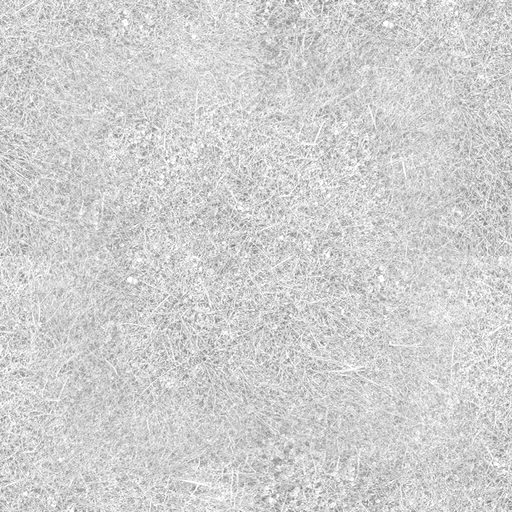
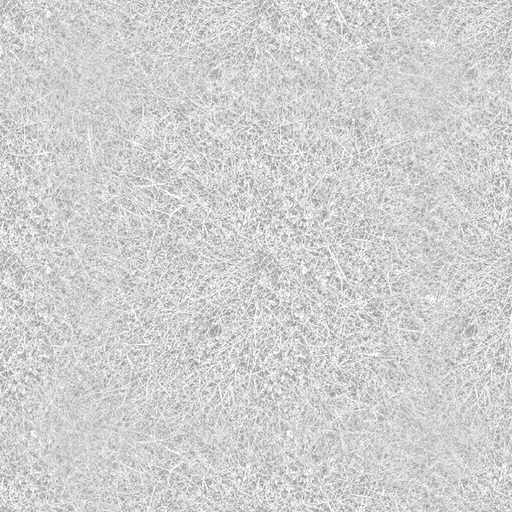
Chapter III's muster, the store-keeper's ledger, and ground without its grid
The fort now closes on a real reckoning: Thomas Studley's ledger asks six of
23 questions about the weeks at the fort (the work, the packed arms, the
attack of 26 May, the boughs and the triangle, who kept the council), two
wrong allowed. It opens only when the fort is finished on 15 June; passing
marks the chapter done and the record leads to the ending.

The ground detail maps (sand, grass, earth, marsh) are re-painted. The
seamless blend now runs one axis at a time; doing both at once left the
rolled copy's seam as a faint cross through every tile.

diff --git a/index.html b/index.html
@@ -12684,6 +12684,7 @@ function rkEnd(){
   const rw=$("resReward");rw.innerHTML="";
   if(passed){
     S.ink+=20;S.chapterDone=true;
+    if(R.onPass)R.onPass();     /* a chapter whose outcome lives elsewhere records it here */
     (CH.unlocks||[]).forEach(function(u){
       const s=document.createElement("span");s.className="tagpill";
       if(u.k==="palette"){
@@ -23815,7 +23816,8 @@ function fortAttackSpots(root,G){
 function fortAct(d){
   const w=fortW(), a=w.attack;
   if(d.kind==="orders"){openFortOrders();return;}
-  if(d.kind==="record"){w.done=true;checkpoint("fort-done");showEnding("ch3");return;}
+  /* the record is closed by sitting the muster; once it has been passed, the ending again */
+  if(d.kind==="record"){if(w.done)showEnding("ch3");else openReckoning();return;}
   if(!a||a.over)return;
   if(d.kind==="casks"){a.casks=true;fortDrop("casks");
     toast("The heads stove in. Calivers and pikes into every hand that will take one.");
@@ -23929,16 +23931,194 @@ function fortResult(title,body,pills,after){
    against it by hand: Newport went up the river in a boat, the ships stayed. */
 const FORT_SAYS={"wingfield": [["“The Council hath set us to work. Trees for the tents, clapboard for the ships, gardens for the spring. We are to build this place with our own hands.”","“I will not have the men running about with muskets in their fists. We are to hold them to watching, warding, and working. That is the order.”","“The Company’s charge is plain: we are not to offend the naturals. So we work, we keep the peace, and we build what we can with the hands we have.”"],["“The werowance of Paspahegh came to our quarter with a hundred of his men, armed. He made signs for us to lay our arms away. We would not trust him so far.”","“One of them stole a hatchet. A man took it back by force and struck him over the arm. The werowance went away in great anger. I will not say who was in the wrong.”","“On the twentieth, forty of his men came with a deer. They would have lain in our fort all night. We would not suffer them. That is the order I give.”"],["“Newport is gone upriver with the best hands. Five gentlemen, four mariners, fourteen sailors. That is the pick of this camp, and they are out of sight.”","“What is left here must keep working. The clapboard, the tents, the half-moon. I will not have the work slacken because the ships are gone upriver.”","“The arms remain in their casks. I hold that order. The men who are here are to watching, warding, and working. That does not change.”"],["“The men are setting corn today. That is the work. The half-moon stands. The casks are sealed. I hold the order: watching, warding, working.”","“Captain Newport is still up the river with the best hands. Until he is back, I will not have the men armed and running about. That is my charge.”","“The half-moon of boughs is what we have. I would have more, but I will not have the men pulling their axes from the corn to swing at the air.”"],["“On the twenty-sixth, they came, and I was here. One arrow went clean through my beard, and I escaped hurt. Nobody counted them the same way afterward.”","“Two hundred, some say four hundred. A boy killed in the pinnace. Eleven men hurt, or seventeen, or fourteen. I do not know which is true. I know I was there.”","“Today the fort is done. A triangle, three bulwarks, guns mounted. It was a cross-bar shot from the ships that brought a bough down among them, and they retired.”"]],"kendall": [["“You see that half-moon of boughs by the water? That is all the fort we have. I have been at it since before the sun was up, and my hands are split.”","“I would have the men drilled, the muskets out of those casks and into their hands. A soldier without his arms is a man waiting to be killed.”","“Now, I know the President holds a different view. He holds us to work and watching. I respect the Council’s order, but I would not sleep well with those casks still sealed.”"],["“A hundred armed men, walking into our camp. And the arms are still in the casks. I watched them and I thought: if this had been a day later, where would we stand?”","“On the twentieth, one of their arrows went a foot through our target. Against steel it burst to pieces. I note that. I note that we have no wall to shoot from.”","“I said to the President, plainly, that I would have the men exercised. He will not have it. So the casks stay shut, and I pray it is not needed.”"],["“The best hands are upriver. I am here with the rest. The half-moon of boughs is the same, but the men to man it are fewer. I note that.”","“I have been at the boughs since before the sun. My hands are raw. But I will not stop. If this is all the fort we have, I will make it as strong as boughs can be.”","“I would have the men I have here exercised. The President says no. So I keep them at work, and I keep my eye on the treeline.”"],["“They are setting corn. Good. We will need it. But I am at the boughs, adding what I can. A half-moon is a thin thing.”","“The casks are still sealed. I have said my piece to the President. He will not move. So I keep the men at work and I keep my eye on the treeline.”","“Newport is not back. I count the days. When he comes I will say again what I have said: the men need their arms.”"],["“I stood at the front with the Council. The half-moon of boughs was all between us and them. Four of us that stood in front were hurt, and the President was not.”","“The arms were in the casks. I said so for a fortnight. On the twenty-sixth, a few gentlemen had their weapons ready. The rest of us had boughs and our hands.”","“Today the triangle is done. Three bulwarks, guns in them. I helped raise it. My hands are the same hands that raised the boughs. But I will not raise boughs again.”"]],"gosnold": [["“We lade the clapboard and the timber aboard, and the ships go home to England. That is the first thing. The Company must see we have landed safe.”","“The guns are aboard the ships, and that is where they do the most good. A ship’s broadside is a thing no camp can match.”","“But when those ships sail, we are here. On this island. With boughs and a prayer. I think on that more than I care to.”"],["“The ships are still here, and the guns are aboard them. That is a comfort. A hundred men came to our quarter and the ships were in the river.”","“They sent a deer. Forty men with it. A gift, or a test, I cannot say. We let them go. The ships are the thing that keeps this place from being a very small target.”","“When the ships sail for England, those guns go with them. And we are left with boughs. I keep thinking on that.”"],["“Newport has taken the best hands up the river in the boat. The ships lie here at the trees with their guns, and fewer men to work them.”","“We are a small company here. The best hands are gone. The work goes on, but it goes on slower, and it goes on with fewer eyes on the water.”","“If something comes while Newport is away, we have boughs, and the ships’ guns at our backs. I have thought on that since the first day we landed.”"],["“Newport is due back from up the river. I watch the water every morning. The ships are moored where they were, and their guns are loaded.”","“We are setting corn. The half-moon stands. The casks are sealed. It is a camp, not a fort. I have said that before. I will say it again.”","“The guns are on those ships, not on this ground. If they come at us from the woods, it is the ships that must answer. I do not like the arithmetic of it.”"],["“I was at the fort. The ships were in the river, and their small shot was heard. I have heard the cross-bar shot brought a bough down among them, and they retired.”","“Today the guns are mounted ashore. Three bulwarks. A triangle. We needed a wall from the first day, and it took arrows to get one.”","“A boy is dead. I do not know his name. He was in the pinnace. Men are hurt, and the accounts disagree on how many. I do not need them to agree to know the cost.”"]],"laydon": [["“I have been at the axe since dark. Trees for the tents, trees for the clapboard, trees for God knows what. My shoulders are on fire.”","“The gentlemen sit and council and choose who is President. I am the one with the axe in my hands and the sap in my eyes.”","“They say the arms are in the casks. Fine. I did not cross the ocean to sit by a cask. I crossed it to work, and I am working.”"],["“A hundred of them, armed, walking up to our quarter. I was in the trees, felling. I heard them and I put the axe down. I did not know what to do.”","“They brought a deer on the twentieth. Forty men. They wanted to stay the night. We said no. I do not blame them for wanting to, and I do not blame us for saying no.”","“I saw the arrow go through the target. A foot clean into the wood. And I am the one out in the trees with an axe while they could have shot me standing still.”"],["“The good hands are gone upriver. I am here. I have been here since dark and I will be here till dark again. The trees do not care who is President.”","“I fell, I dig, I carry. The gentlemen who went up the river went in the boat. I am here in the mud with my axe. That is the lot of a labourer.”","“That half-moon of boughs is our wall. I helped put it up. It is not much. But it is all there is, and I will not let it fall.”"],["“I have been setting corn since the sun was up. My back is a knot. The corn will grow or it will not. I have done my part.”","“That half-moon is our wall. I helped build it. It is boughs and mud. I would not call it a fort. But it is what we have.”","“Newport is not back. I do not know where he is. I know I am here, and I know the corn is in the ground, and I know my hands are bleeding.”"],["“I was in the field setting corn. I heard the arrows and I ran. I ran to the boughs and I stood there. I did not have a musket. I had my hands.”","“Clovill went out of the fort unarmed, straggling. Six arrows in him. He cried ’Arme, Arme.’ He is dead. I did not know him well. I knew his name. That is not enough.”","“Today the palisade is up. A triangle. I helped carry the timbers. My back is the same back that set the corn. But I will not set corn in the open again.”"]],"laxon": [["“Four of us carpenters, and the whole island to build. I have measured the timber for the storehouse and there is not enough to spare.”","“The Company wants clapboard laded on the ships. That is a day’s work for each board, cut and dressed. We have the ships waiting.”","“You want a wall? A roof? A proper shelter? You want hands. We have axes and we have wood, but hands are the thing we lack.”"],["“The work does not stop because a hundred men walked past. I was dressing clapboard and I am dressing clapboard. The ships need lading.”","“On the twentieth one of their arrows went a foot into a wooden target. Against steel it broke to pieces. I can make boards. I cannot make steel.”","“Four carpenters. That is all. I cannot build a storehouse and a palisade and a roof with four hands. I need the labourers, and the labourers need rest.”"],["“Newport is up the river. The clapboard is not all laded. I am here with three other carpenters and a pile of green timber. We keep working.”","“The storehouse is not built. The tents are not all pitched. I have measured and I have cut, and there is still more to cut. Fewer hands, same work.”","“I would have a proper wall. Timber, dressed and set. But I have boughs and I have four hands. I make the best of it.”"],["“The corn is set. The tents are up. The clapboard is half laded. I have done what four carpenters can do, and it is not enough.”","“I have added to the half-moon where I can. Boughs, lashed and set. It is not a wall. It is a suggestion of a wall. But it is what I have.”","“The storehouse is still not built. I have the timber measured and cut. It waits. I will not let it rot.”"],["“I was at the boughs. I held my place. The arrows came thick. I do not know how many men were out there. Two hundred, four hundred. I was looking at the arrows, not counting the men.”","“Today the triangle is finished. Three bulwarks, half-moon shaped at each corner. Guns mounted. I dressed the timber, set the palisade, nailed the boards. My hands know every inch of it.”","“A boy is dead, killed in the pinnace. I do not know his name. The fort is done. God keep us inside it.”"]],"hunt": [["“We have hung an old sail to three trees for shade, and a bar of wood nailed between two more for the pulpit. God hears us plain enough.”","“There is friction among us. Men quarrel over who does what, who is above whom. I would have them remember they are one company.”","“The Company’s word is that we are not to offend them. I take that as a command from God as much as from London. We keep the peace.”"],["“There was a great anger when the werowance left. I saw the men’s faces. I would have them remember that a deer is a gift, and a gift is not a threat.”","“The hatchet was stolen, and a man struck in anger. I do not excuse it, but I do not excuse the theft either. Two wrongs do not make a peace.”","“Forty men came with a deer and would have lain with us. We said no. I understand why. But I would have them see that a door shut is not the same as a door broken.”"],["“The best hands are gone upriver. We are a smaller company here. I hold my services under the sail, and I see fewer faces than last week.”","“I would have the men who are here keep the peace among themselves. There is less room for quarrel when there are fewer men. I would have them remember that.”","“The werowance has been in anger since the hatchet. I do not know what he will do. I pray for Newport’s safe return, and for patience in this camp.”"],["“The men are setting corn. I see them in the field, and I am glad. A man with work in his hands is a man less likely to quarrel with his neighbour.”","“Newport is not yet back. I have prayed for his safe return. I have prayed for the peace of this camp. I do not know which prayer is harder to answer.”","“We have our half-moon. We have our sail for the pulpit. We have our corn in the ground. It is a small life. I would have them see it as God’s provision, not as a lack.”"],["“I was in the fort. I held my prayers and I held my place. I saw men fall. A boy was killed in the pinnace. I do not have words for it.”","“Clovill went out unarmed. He cried for arms. Six arrows took him, and he lived eight days. I would have him known. He was a man, not a number in a ledger.”","“The triangle is done. The guns are mounted. I will hold my services within those walls now. I will pray for the men who are hurt, and for the boy who is not.”"]],"smith": [["“They made an oration and I was not admitted of the Council. I was named for it in London, and here I am told to stand aside. Well.”","“I see the work. Trees felled, tents pitched, a half-moon of boughs called a fort. It is a start. I would call it a beginning of a start.”","“The arms sit in their casks while we swing axes. I have no quarrel with the President, but a man with a musket is not the same as a man with an axe.”"],["“A hundred armed men, and the President will not let us have our muskets. I would not trust them so far, as they say. But I would trust a loaded musket more.”","“A hatchet stolen, a man struck. The werowance went in great anger. I have no love for the man who stole, but I have no love for the man who swung either.”","“Forty men, a deer, and they wanted to stay the night. We said no. I would have said yes, and put a man on watch. But I am not in the Council.”"],[],[],[]]};
 
-/* ---- CHAPTER III'S CONTENT ----
-   It has no muster yet (CH3-FORT.md: the bank is still to be written off this chapter's
-   findings), so the scrivener's machinery is given an empty one rather than inheriting
-   Chapter I's - CH falling back to CH1 is how Chapter II once asked a man on a beach about
-   rations in a ship's hold. */
+/* ---- CHAPTER III'S CONTENT, AND ITS MUSTER ----
+   The muster is sat at "Close the Record" on 15 June, so everyone who sits it has given
+   the orders, lived through the twenty-sixth and walked the finished fort: every item is
+   ungated, and every stimulus carries the words its question needs. Written off
+   docs/CH3-RECORD.md, quotations in the sources' own spelling. A local model (qwen3.8:27b,
+   tools/muster_draft.py) drafted a first bank; read against the record, it gave quotations
+   to the wrong writers and left out the two things this chapter is most about - that
+   nobody who wrote about 26 May saw it, and that historians disagree on who ordered it -
+   so the bank was rewritten by hand, keeping what was sound (26 November 2026).
+   The sitter is Thomas Studley, who kept the store and stayed at the fort: the 1612
+   Proceedings chapter that comes nearest to an eyewitness is credited to him. */
 CONTENT.ch3={
   people:FORT_PEOPLE, npcs:[],
   charter:{insight:{b:"The Half Moon"}},
-  reck:[],
-  ready:function(){return {ok:false,missing:["a muster for this chapter, which is not written yet"]};},
+  reck:{seal:"records",kick:"The Store-Keeper\u2019s Ledger",title:"Set Down the Fort",
+    frame:"\u201cNewport sails for England with letters,\u201d says Thomas Studley, his ledger open on a cask. \u201cWhat goes home in them ought to be true. Six questions about these weeks; I\u2019ll bear two wrong \u2014 no more.\u201d",
+    lockLine:"Not yet. The record is closed when the fort is finished, on the fifteenth of June.",
+    pass:{title:"The Record Holds",
+      body:"You can say what happened on this island, how anyone knows it, and where nobody does. The letters go home with Newport on the twenty-second. Not everything in them is true, but your part is."},
+    fail:{title:"The Record Does Not Hold",
+      body:"Too much of what you would send home is guesswork set down as knowing. Walk the fort, read the accounts of the twenty-sixth again, and come back. Newport does not sail until the twenty-second."},
+    /* the chapter's outcome lives in S.works.ch3, not in the global chapterDone */
+    onPass:function(){fortW().done=true;},
+    q:[
+    {stim:"The 1612 Proceedings: “the Councell contriue the Fort, the rest cut downe trees to make place to pitch their Tents; some provide clapbord to relade the ships; some make gardens, some nets.”",
+     q:"What does this passage show about how the company was organised?",
+     o:["A few men decided and the rest did the heavy work",
+        "Every man voted on where the fort should stand",
+        "The labourers drew up the plan of the fort themselves",
+        "The work was shared out evenly among all ranks"],a:0},
+
+    {stim:"In the same weeks that they cut trees and made gardens, some of the men split clapboard “to relade the ships” for the voyage home.",
+     q:"Clapboard for the ships shows that, from the first weeks, the colony was ALSO expected to -",
+     o:["send goods home that showed the Company a return",
+        "build houses for the Powhatan towns nearby",
+        "repair the ships for a second voyage up the river",
+        "store timber against a winter months away"],a:0},
+
+    {stim:"The 1612 Proceedings blame “The Presidents overweening iealousie”, which “would admit no exercise at armes, or fortification but the boughs of trees cast together in the forme of a halfe moone”. Wingfield, defending himself later, wrote that he “held them to watching, warding, and workeing.”",
+     q:"A careful historian should treat the Proceedings’ charge against Wingfield as -",
+     o:["the view of his opponents, to be weighed against his own defence",
+        "settled fact, because it was printed in a published book",
+        "worthless, because Wingfield denied every word of it",
+        "proof that Wingfield wrote out an order to pack the arms"],a:0},
+
+    {stim:"On 26 May the men were “busied in setting Corne”, and “their armes beeing then in driefats” - packed in casks (True Relation, 1608).",
+     q:"Packed arms mattered MOST on the twenty-sixth because -",
+     o:["men at work in the open could not quickly arm themselves",
+        "the powder in the casks had been spoiled by the sea",
+        "the Paspahegh had been told where the casks were kept",
+        "the casks had already been laded aboard the ships"],a:0},
+
+    {stim:"The True Relation and the Proceedings both say the arms were still in casks on 26 May. Neither quotes an order keeping them there; the Proceedings blame the President’s “iealousie” in general.",
+     q:"What can a careful historian conclude about the packed arms?",
+     o:["That they were packed is recorded; who kept them so is the writers’ judgement",
+        "Wingfield signed a written order that kept them packed",
+        "The Paspahegh had asked the English to put them away",
+        "Newport took the arms up the river and left the casks empty"],a:0},
+
+    {stim:"Percy, 18 May: the werowance of Paspahegh came “with one hundred Savages armed” and made signs, as the English read them, “that he would give us as much land as we would desire.”",
+     q:"Percy’s report of an offer of “as much land as we would desire” needs care because -",
+     o:["it is the English reading of signs, not words both sides understood",
+        "Percy had already gone up the river with Newport",
+        "the werowance spoke to the council in plain English",
+        "the werowance later set the offer down in writing"],a:0},
+
+    {stim:"Percy, 18 May: “one of them stole a Hatchet”; an Englishman “tooke it from him by force, and also strooke him over the arme”, and the werowance “went suddenly away with all his company in great anger.”",
+     q:"The hatchet quarrel is BEST used as evidence that -",
+     o:["small incidents were already straining relations before the attack",
+        "the English and the Paspahegh traded freely without dispute",
+        "the English punished every theft with death",
+        "the werowance approved of what his man had done"],a:0},
+
+    {stim:"Percy, 20 May: an English target was shot “a foote thorow” by a Paspahegh arrow, but against steel the arrow “burst … all to pieces”.",
+     q:"The trial of the target suggests the English learned that -",
+     o:["steel would stop an arrow that a wooden target would not",
+        "Paspahegh arrows could not pierce wood at all",
+        "the Paspahegh refused to show what their bows could do",
+        "their muskets could not reach as far as a Powhatan bow"],a:0},
+
+    {stim:"Percy, 20 May: forty of the werowance’s men came with a deer and “would have layne in our Fort all night, but wee would not suffer them.”",
+     q:"Turning the forty men away for the night shows the English were -",
+     o:["accepting gifts while refusing to trust the givers",
+        "at open war with the Paspahegh by the twentieth",
+        "short of food and unable to feed guests",
+        "obeying a Paspahegh custom about strangers"],a:0},
+
+    {stim:"Percy, 24 May, reports a werowance answering his own people’s complaints about the English: “They take but a litle waste ground, which doth you nor any of us any good.”",
+     q:"This line shows that among the Powhatan -",
+     o:["people disagreed about how to answer the English",
+        "everyone agreed the English must be driven off at once",
+        "the island was prized as their best farmland",
+        "the English had paid for the island in trade goods"],a:0},
+
+    {stim:"Percy calls the place “our seating place in Paspihas Countrey”.",
+     q:"Percy’s own words show that the English -",
+     o:["knew the island lay in Paspahegh land",
+        "believed the island had never had an owner",
+        "had bought the island from Powhatan before landing",
+        "thought the Paspahegh lived far down the bay"],a:0},
+
+    {stim:"On 21 May Newport took “5. gentlemen. 4. Maryners and. 14. Saylours” up the river, among them Archer, Smith and Percy. They came back on the twenty-seventh.",
+     q:"Newport’s journey up the river matters to the story of 26 May because it -",
+     o:["left the fort short of hands, and took away the men who wrote about it",
+        "carried all of the colony’s guns and powder up the river",
+        "brought the werowance’s warriors down the river behind it",
+        "stopped all work on the fort until the boat came back"],a:0},
+
+    {stim:"Archer, Smith and Percy were up the river on 26 May; they wrote what they were told when they returned. Wingfield was at the fort, but his own account begins on 22 June.",
+     q:"The surviving English accounts of the attack are BEST described as -",
+     o:["reports by men who were not there, from what others told them",
+        "eyewitness accounts by men standing in the half-moon",
+        "Paspahegh accounts written down by English clerks",
+        "a report Wingfield sent to London on the day itself"],a:0},
+
+    {stim:"Archer counts “aboue. 200.” attackers. The True Relation says “400. Indians”. Neither writer was there.",
+     q:"The difference between these two numbers is BEST explained by -",
+     o:["each writer passing on an estimate made by men who did not count",
+        "a second attack on another day that doubled the number",
+        "a printer copying one of the figures twice by mistake",
+        "the Paspahegh bringing more men after the first hour"],a:0},
+
+    {stim:"Wounded on 26 May: Archer, “11. men”; the True Relation, “thirteene or fourteene”; the Proceedings, “17 men”. All three agree a boy was killed.",
+     q:"With three different counts of the wounded, a historian should -",
+     o:["give the range and say plainly that the sources disagree",
+        "use the largest, since the latest account must be best",
+        "average the three and give that as the true figure",
+        "leave the attack out, since none of it can be trusted"],a:0},
+
+    {stim:"Archer: “the Shippes ordinance with their small shott”. The Proceedings: “a crosse barre shot from the ships strooke down a bough from a tree amongst them, that caused them to retire.”",
+     q:"According to the record, what made the attackers draw off?",
+     o:["Fire from the ships, when a shot brought a bough down among them",
+        "A charge by the gentlemen out from behind the boughs",
+        "The sight of Newport’s boat returning down the river",
+        "The guns mounted in the fort’s three bulwarks"],a:0},
+
+    {stim:"Afterwards, says the Proceedings, Wingfield agreed the fort “should be pallisadoed, the ordinance mounted, his men armed and exercised.”",
+     q:"This agreement tells us that BEFORE 26 May -",
+     o:["there was no palisade, no guns ashore, and no drill",
+        "guns stood ashore already but had no powder",
+        "the men drilled daily but had no palisade",
+        "the triangle fort stood already, but unmanned"],a:0},
+
+    {stim:"Archer: “ffoure of the Counsell that stood in front were hurt”, and Wingfield “had one shott cleane through his bearde, yet scaped hurte.”",
+     q:"These details suggest that during the attack the council -",
+     o:["stood in the front of the defence with the others",
+        "sheltered aboard the ships until it was over",
+        "were away up the river with Captain Newport",
+        "watched from the woods behind the Paspahegh"],a:0},
+
+    {stim:"31 May: Eustace Clovill, “vnarmed stragling without the ffort”, was shot with six arrows and came in “crying Arme Arme”. He died on 8 June.",
+     q:"Clovill’s death, five days after the attack, shows that -",
+     o:["the danger did not end on the twenty-sixth, least of all outside the fort",
+        "the attack of the twenty-sixth went on for five days",
+        "Clovill had been wounded inside the fort on the twenty-sixth",
+        "the English had made peace and stopped keeping watch"],a:0},
+
+    {stim:"Before: “the boughs of trees cast together in the forme of a halfe moone”. By 15 June, Percy: “triangle wise, having three Bulwarkes, at every corner, like a halfe Moone, and foure or five pieces of Artillerie mounted in them.”",
+     q:"The change from boughs to the triangle is BEST explained as -",
+     o:["a response to the attack, which showed the camp could not hold",
+        "an order from London that came back with Newport’s boat",
+        "a permission the Paspahegh gave after the attack",
+        "a plan from England, finished on the day it was due"],a:0},
+
+    {stim:"14 June: the guide Navirans named five peoples as “our Contracted Enemyes” and “counselled vs to Cutt Downe the long weedes rounde about our fforte”.",
+     q:"Navirans’s advice BEST shows that -",
+     o:["some Powhatan people helped the English against enemies of their own",
+        "the English had already cleared the ground round the fort",
+        "Navirans wanted the English to plant corn round the walls",
+        "every Powhatan town was now at war with the English"],a:0},
+
+    {stim:"Historian Helen Rountree reads 26 May as the work of a local alliance, perhaps prompted by Newport going up the river. Virtual Jamestown finds “little doubt that Chief Powhatan authorized and coordinated the attack.”",
+     q:"Historians can disagree about who ordered the attack because -",
+     o:["no source records the Powhatan leaders’ own decision",
+        "Powhatan wrote a letter that they read in different ways",
+        "the English accounts name two different war leaders",
+        "no English account mentions the attack at all"],a:0},
+
+    {stim:"13 May: “an oration made, whie Captaine Smith was not admitted of the Councell”, though the Company had named him to it. He was sworn on 10 June.",
+     q:"Keeping Smith off the council suggests that, on the spot, the council -",
+     o:["could set aside one of London’s own choices for a time",
+        "had no power over who sat among its members",
+        "was elected by the whole company at the landing",
+        "followed the Company’s list exactly as written"],a:0}
+    ]},
+  ready:function(){
+    return fortW().epi?{ok:true,missing:[]}:{ok:false,missing:["the finished fort, on the fifteenth of June"]};
+  },
   targets:[], unlocks:[]
 };
 
@@ -24140,7 +24320,7 @@ const CHAPTERS=[
        {t:"Give the council’s orders ("+Math.min(w.stretch,4)+" of 4 stretches)",done:w.stretch>=4},
        {t:"Speak with the people on the island",done:met>=3,opt:true},
        {t:"Live through the twenty-sixth of May",done:!!(w.attack&&w.attack.over),goal:true,locked:w.stretch<4},
-       {t:"Walk the finished fort, 15 June",done:!!w.done,goal:true,locked:!w.epi}
+       {t:"Walk the finished fort and close the record, 15 June",done:!!w.done,goal:true,locked:!w.epi}
      ];
    },
    status:function(){
@@ -24270,6 +24450,10 @@ const PATCH_NOTES=[
      "The fort, the camp, the storehouse, the clearing and the fields are new 3D models, built in Blender for this game. The barrels and chests began as free models from Poly Haven.",
      "<b>Kecoughtan, rebuilt</b>",
      "The houses at Kecoughtan were drawn as stacked boxes. They are now what John Smith described: frames of bent saplings covered with mats and bark, with a smoke hole over the fire and a mat hung across the door. The casks on the beach at Cape Henry are proper barrels now.",
+     "<b>The store-keeper’s ledger</b>",
+     "Chapter III now ends with a muster. When the fort is finished on 15 June, Thomas Studley, who kept the store, asks you six questions about these weeks before Newport sails home with letters. Pass with four right and the chapter closes. The questions are about evidence: what the sources say, who could have known it, and where historians still disagree.",
+     "<b>The ground, without its grid</b>",
+     "The ground textures were painted again. A fault in how they were joined left a faint cross in every tile, so the sand and earth showed a grid when you looked along them. It is gone.",
      "<b>A deer at the edge of the trees</b>",
      "At Archer’s Hope, across the neck from Jamestown, and in the woods past the fort there is now a deer. John Smith wrote in 1612 that deer were the chief beasts of the country, many toward the heads of the rivers “but amongst the riuers few”, so there is only one, and it will not let you near. It has no antlers: in May a buck’s are still short and in velvet.",
      "<b>The accounts disagree, and the game says so</b>",
@@ -25566,7 +25750,7 @@ updateInk();
    chased once per session; a failed or offline fetch does nothing at all; and the
    reload carries ?v= so it cannot be answered from the same cache that caused it.
    Existing query parameters are preserved, so ?admin survives an update. */
-const BUILD="20261126-0753";
+const BUILD="20261126-1626";
 (function(){
   try{
     if(!window.fetch||location.protocol==="file:")return;

diff --git a/tools/textures/make_textures.py b/tools/textures/make_textures.py
@@ -37,14 +37,18 @@ MEAN, SPREAD = 0.82, 0.10
 
 
 def seamless(a):
-    """Offset-and-blend: the rolled copy is continuous across the tile edges, the original across the middle."""
-    h, w = a.shape[:2]
-    r = np.roll(np.roll(a, h // 2, 0), w // 2, 1)
-    y = np.minimum(np.arange(h), h - 1 - np.arange(h)) / (h / 2)
-    x = np.minimum(np.arange(w), w - 1 - np.arange(w)) / (w / 2)
-    m = np.clip(np.minimum.outer(y, x) * 1.6, 0, 1)
-    m = (m * m * (3 - 2 * m))[..., None] if a.ndim == 3 else m * m * (3 - 2 * m)
-    return a * m + r * (1 - m)
+    """Offset-and-blend, one axis at a time: the copy rolled half a tile is continuous across the tile edges, the
+    original across the middle, and each pass keeps the original wherever the rolled copy has its own seam.
+    Both axes in one pass (a min(x, y) mask) left the rolled copy's seam showing along the tile's midlines near the
+    edges: a faint cross through every tile, seen in the 2x2 previews on 2026-11-26."""
+    for ax in (0, 1):
+        n = a.shape[ax]
+        d = np.minimum(np.arange(n), n - 1 - np.arange(n)) / (n / 2)
+        m = np.clip(d * 1.6, 0, 1)
+        m = m * m * (3 - 2 * m)
+        m = m.reshape([-1 if i == ax else 1 for i in range(a.ndim)])
+        a = a * m + np.roll(a, n // 2, ax) * (1 - m)
+    return a
 
 
 def detail(img):
